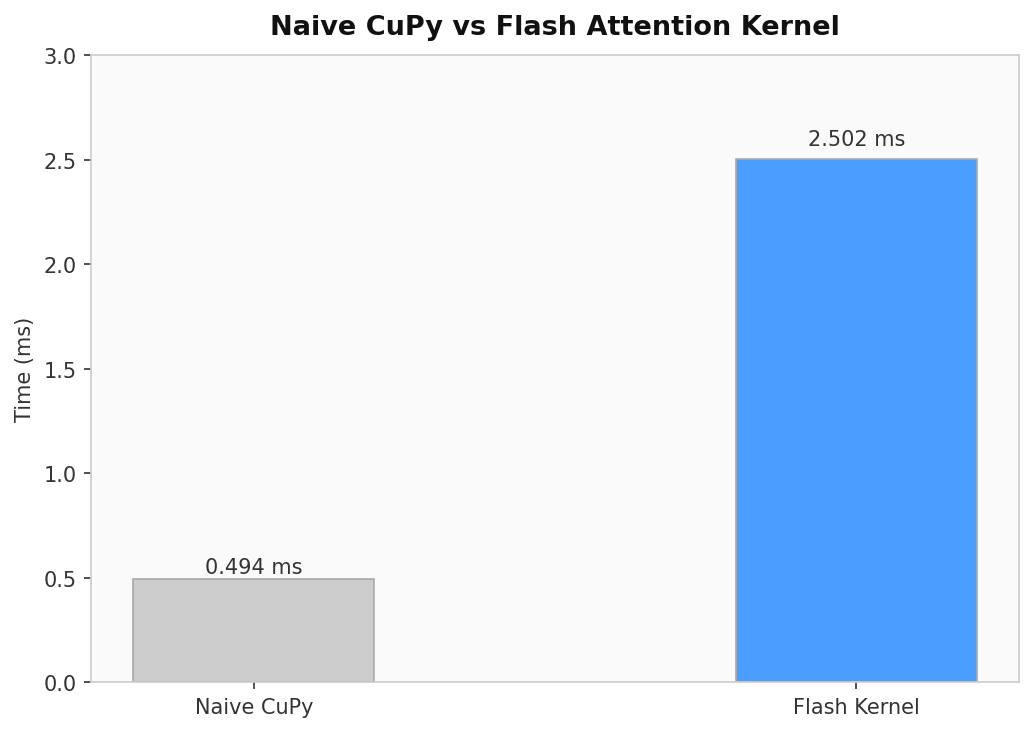
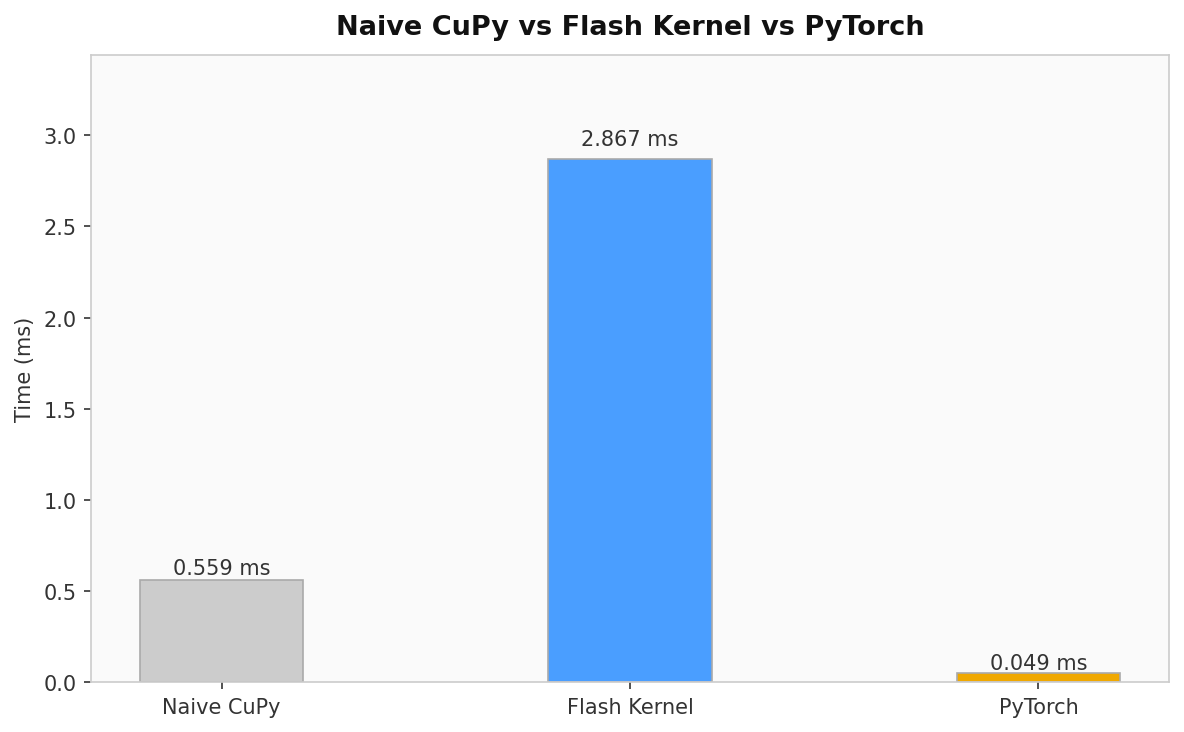
fully working forward + backward flash attention

diff --git a/main.py b/main.py
@@ -1,30 +1,57 @@
 import cupy as cp
+import torch
 from naive import naive_attention
 from flash import flash_attention
-from benchmark import benchmark
+from pure_backward import flash_attention_backward
+from benchmark import benchmark, benchmark_torch
 from plot import plot
+cp.set_printoptions(threshold=10)
 
 def main():
     N, d = 512, 32
     Q = cp.random.randn(N, d, dtype=cp.float32)
     K = cp.random.randn(N, d, dtype=cp.float32)
     V = cp.random.randn(N, d, dtype=cp.float32)
+    dO = cp.random.randn(N, d, dtype=cp.float32)
 
-    out_naive = naive_attention(Q, K, V)
+    out_naive, l, m = naive_attention(Q, K, V)
     out_flash = flash_attention(Q, K, V)
-    diff = float(cp.max(cp.abs(out_naive - out_flash)))
-    print(f"correctness check - max diff: {diff:.6f}")
 
-    time_naive = benchmark(naive_attention, Q, K, V)
+    dQ, dK, dV = flash_attention_backward(Q, K, V, out_flash, dO, l, m)
+
+    Q_pt = torch.tensor(cp.asnumpy(Q), requires_grad=True)
+    K_pt = torch.tensor(cp.asnumpy(K), requires_grad=True)
+    V_pt = torch.tensor(cp.asnumpy(V), requires_grad=True)
+    
+    dO_pt = torch.tensor(cp.asnumpy(dO))
+    scale = 1.0 / (d ** 0.5)
+    O_pt = torch.softmax((Q_pt @ K_pt.T) * scale, dim=-1) @ V_pt
+    O_pt.backward(dO_pt)
+
+    def naive_fwd(Q, K, V):
+        out, _, _ = naive_attention(Q, K, V)
+        return out
+
+    Q_pt_b = torch.tensor(cp.asnumpy(Q), device="cuda")
+    K_pt_b = torch.tensor(cp.asnumpy(K), device="cuda")
+    V_pt_b = torch.tensor(cp.asnumpy(V), device="cuda")
+
+    def torch_fwd(Q, K, V):
+        scale = 1.0 / (d ** 0.5)
+        return torch.softmax((Q_pt_b @ K_pt_b.T) * scale, dim=-1) @ V_pt_b
+
+    time_naive = benchmark(naive_fwd, Q, K, V)
     time_flash = benchmark(flash_attention, Q, K, V)
+    time_torch = benchmark_torch(torch_fwd, Q_pt_b, K_pt_b, V_pt_b)
+
     speedup = time_naive / time_flash
 
-    print(f"\n{'':30s} {'Naive':>15} {'Flash':>15}")
-    print(f"{'-'*60}")
-    print(f"{'Time (ms)':30s} {time_naive:>15.3f} {time_flash:>15.3f}")
-    print(f"{'Speedup':30s} {'1.00x':>15} {speedup:>14.2f}x")
+    print(f"\n{'':30s} {'Naive':>12} {'Flash':>12} {'PyTorch':>12}")
+    print(f"{'-'*66}")
+    print(f"{'Time (ms)':30s} {time_naive:>12.3f} {time_flash:>12.3f} {time_torch:>12.3f}")
+    print(f"{'Speedup vs Naive':30s} {'1.00x':>12} {speedup:>11.2f}x {time_naive/time_torch:>11.2f}x")
 
-    plot(time_naive, time_flash)
+    plot(time_naive, time_flash, time_torch)
 
 if __name__ == "__main__":
     main()

diff --git a/torch_verify.py b/torch_verify.py
@@ -1,0 +1,46 @@
+import cupy as cp
+import numpy as np
+import torch
+from flash import flash_attention
+from naive import naive_attention
+from pure_backward import flash_attention_backward
+
+def verify_backward():
+    N, d = 512, 32
+
+    Q_np = np.random.randn(N, d).astype(np.float32)
+    K_np = np.random.randn(N, d).astype(np.float32)
+    V_np = np.random.randn(N, d).astype(np.float32)
+    dO_np = np.random.randn(N, d).astype(np.float32)
+
+    Q_cp = cp.array(Q_np)
+    K_cp = cp.array(K_np)
+    V_cp = cp.array(V_np)
+    dO_cp = cp.array(dO_np)
+
+    _, l_cp, m_cp = naive_attention(Q_cp, K_cp, V_cp)
+    O_cp = flash_attention(Q_cp, K_cp, V_cp)
+
+    dQ_cp, dK_cp, dV_cp = flash_attention_backward(Q_cp, K_cp, V_cp, O_cp, dO_cp, l_cp, m_cp)
+
+    Q_pt = torch.tensor(Q_np, requires_grad=True)
+    K_pt = torch.tensor(K_np, requires_grad=True)
+    V_pt = torch.tensor(V_np, requires_grad=True)
+    dO_pt = torch.tensor(dO_np)
+
+    scale = 1.0 / (d ** 0.5)
+    S_pt = (Q_pt @ K_pt.T) * scale
+    P_pt = torch.softmax(S_pt, dim=-1)
+    O_pt = P_pt @ V_pt
+    O_pt.backward(dO_pt)
+
+    dQ_diff = float(cp.max(cp.abs(dQ_cp - cp.array(Q_pt.grad.numpy()))))
+    dK_diff = float(cp.max(cp.abs(dK_cp - cp.array(K_pt.grad.numpy()))))
+    dV_diff = float(cp.max(cp.abs(dV_cp - cp.array(V_pt.grad.numpy()))))
+
+    print(f"dQ max diff: {dQ_diff:.6f}")
+    print(f"dK max diff: {dK_diff:.6f}")
+    print(f"dV max diff: {dV_diff:.6f}")
+
+if __name__ == "__main__":
+    verify_backward()

diff --git a/plot.py b/plot.py
@@ -1,25 +1,26 @@
 import matplotlib.pyplot as plt
 
-def plot(time_naive, time_flash):
-    fig, ax = plt.subplots(figsize=(7, 5))
+def plot(time_naive, time_flash, time_torch):
+    fig, ax = plt.subplots(figsize=(8, 5))
     fig.patch.set_facecolor("#ffffff")
     ax.set_facecolor("#fafafa")
 
-    bars = ax.bar(["Naive CuPy", "Flash Kernel"],
-                  [time_naive, time_flash],
-                  width=0.4,
-                  color=["#cccccc", "#4a9eff"],
-                  edgecolor="#aaaaaa",
-                  linewidth=0.8)
+    labels = ["Naive CuPy", "Flash Kernel", "PyTorch"]
+    times = [time_naive, time_flash, time_torch]
+    colors = ["#cccccc", "#4a9eff", "#f0a800"]
+
+    bars = ax.bar(labels, times, width=0.4, color=colors,
+                  edgecolor="#aaaaaa", linewidth=0.8)
 
     for bar in bars:
         h = bar.get_height()
         ax.text(bar.get_x() + bar.get_width() / 2, h * 1.02,
                 f"{h:.3f} ms", ha="center", va="bottom", fontsize=10, color="#333333")
 
-    ax.set_title("Naive CuPy vs Flash Attention Kernel", fontsize=13, fontweight="bold", color="#111111", pad=10)
+    ax.set_title("Naive CuPy vs Flash Kernel vs PyTorch", fontsize=13,
+                 fontweight="bold", color="#111111", pad=10)
     ax.set_ylabel("Time (ms)", fontsize=10, color="#333333")
-    ax.set_ylim(0, max(time_naive, time_flash) * 1.2)
+    ax.set_ylim(0, max(times) * 1.2)
     ax.spines[:].set_color("#cccccc")
     ax.tick_params(colors="#333333")
 

diff --git a/benchmark.py b/benchmark.py
@@ -1,4 +1,3 @@
-# cuda event timing, bandwith funcs
 import cupy as cp
 
 def benchmark(fn, Q, K, V, iters=20):
@@ -16,3 +15,21 @@ def benchmark(fn, Q, K, V, iters=20):
     end.synchronize()
 
     return cp.cuda.get_elapsed_time(start, end) / iters
+
+
+def benchmark_torch(fn, Q, K, V, iters=20):
+    import torch
+    for _ in range(5):
+        fn(Q, K, V)
+    torch.cuda.synchronize()
+
+    start = torch.cuda.Event(enable_timing=True)
+    end = torch.cuda.Event(enable_timing=True)
+
+    start.record()
+    for _ in range(iters):
+        fn(Q, K, V)
+    end.record()
+    torch.cuda.synchronize()
+
+    return start.elapsed_time(end) / iters

diff --git a/naive.py b/naive.py
@@ -2,13 +2,12 @@
 import cupy as cp
 
 def naive_attention(Q, K, V):
-    scores = Q @ K.T #dot
     d = Q.shape[-1]
-    scores = scores / cp.sqrt(d) #scale
-    
-    #numerically stable softmax
-    scores = scores - cp.max(scores, axis=-1, keepdims=True)
-    scores = cp.exp(scores)
-    scores = scores / cp.sum(scores, axis=-1, keepdims=True)
-
-    return scores @ V
+    S = (Q @ K.T) / cp.sqrt(d) #scale
+    m = cp.max(S, axis=-1, keepdims=True)
+    S = S- m
+    exp_S = cp.exp(S)
+    l = cp.sum(exp_S, axis=-1, keepdims=True)
+    P = exp_S / l
+    O = P @ V
+    return O, l, m

diff --git a/pure_backward.py b/pure_backward.py
@@ -1,0 +1,20 @@
+import cupy as cp
+
+
+def flash_attention_backward(Q, K, V, O, dO, l, m):
+    d = Q.shape[-1]
+    scale = 1.0 / (d ** 0.5)
+
+    S = (Q @ K.T) *  scale #recompute
+    P = cp.exp(S - m) / l
+
+    dV = P.T @ dO #gradient through O = p @ v
+    dP = dO @ V.T
+
+    dS = P * (dP - cp.sum(dP * P, axis=-1, keepdims=True)) #softmax backward 
+    dS = dS * scale
+
+    dQ = dS @ K #S = Q @ K.T
+    dK = dS.T @ Q
+
+    return dQ, dK, dV

diff --git a/flash.py b/flash.py
@@ -103,4 +103,9 @@ def flash_attention(Q, K, V):
         (Q, K, V, O, cp.int32(N), cp.int32(d), scale),
         shared_mem=shared_mem
     )
-    return O
+
+    S = (Q @ K.T) * float(scale)
+    m = cp.max(S, axis=-1, keepdims=True)
+    l = cp.sum(cp.exp(S - m), axis=-1, keepdims=True)
+
+    return O, l, m

diff --git a/README.md b/README.md
@@ -1,22 +1,20 @@
 # Flash Attention from Scratch in CUDA / CuPy
 
-A from-scratch implementation of Flash Attention using a custom CUDA kernel written in CuPy RawKernel. Built to understand the algorithm deeply — online softmax, tiling, O(N) memory — and verify it against naive attention.
-
-The kernel is mathematically correct. It does not beat naive CuPy attention in performance. That gap comes from score parallelization, a known hard problem that requires warp-level reductions and shared memory score caching. That is the next step.
+A from-scratch implementation of Flash Attention with a full forward and backward pass. Forward is a custom CUDA kernel written in CuPy RawKernel. Backward is implemented in pure CuPy ops. Both are verified correct against PyTorch.
 
 ---
 
 ## What is Flash Attention
 
-Standard attention computes the full NxN score matrix and writes it to global memory (HBM). matrix is large and the repeated HBM reads and writes become the bottleneck.
+Standard attention computes the full NxN score matrix and writes it to global memory. For long sequences this becomes the bottleneck — not compute, but memory bandwidth.
 
-Flash Attention processes attention in tiles. The score matrix is never materialized in HBM — scores are computed tile by tile, kept in registers, and discarded. Memory complexity goes from O(N²) to O(N).
-
-The key insight is online softmax — an algorithm that computes exact softmax incrementally without seeing all scores at once, using a running maximum and running sum that get corrected each tile.
+Flash Attention processes attention in tiles. The NxN score matrix is never materialized in HBM. Scores are computed tile by tile in SRAM using online softmax, then discarded. Memory complexity goes from O(N²) to O(N).
 
 ---
 
-## Algorithm
+## Forward Pass
+
+**Algorithm:**
 
 Outer loop — iterate over tiles of Q
 
@@ -26,11 +24,41 @@ For each tile:
 - Compute score tile S = Q_tile @ K_tile.T / sqrt(d) in registers
 - Update running max m and running sum l using online softmax
 - Apply correction factor exp(m_old - m_new) to rescale prior accumulation
-- Accumulate output O += exp(S - m_new) @ V_tile
+- Accumulate O += exp(S - m_new) @ V_tile
 
-After all tiles — divide O by l to normalize, write to HBM once
+After all tiles — divide O by l, write O tile to HBM once
 
-The NxN score matrix never exists in memory. Only tiles live in SRAM at any moment.
+**Online softmax** is the core insight — exact softmax computed incrementally without seeing all scores at once, using a running maximum and denominator corrected each tile.
+
+The forward kernel is a CuPy RawKernel. Each thread handles one output dimension. All threads in a block collaborate to load K and V tiles into shared memory, then each thread accumulates its own output element independently.
+
+---
+
+## Backward Pass
+
+**Recomputation trick** — standard attention stores the full NxN softmax weight matrix P from forward to use during backward, costing O(N²) memory. Flash attention backward throws P away and recomputes it from Q, K, and the saved scalars m and l. Same result, O(N) memory.
+
+**Algorithm:**
+
+```
+# recompute attention weights
+S = Q @ K.T / sqrt(d)
+P = exp(S - m) / l
+
+# gradient through O = P @ V
+dV = P.T @ dO
+dP = dO @ V.T
+
+# softmax backward
+dS = P * (dP - rowsum(dP * P))
+dS = dS / sqrt(d)
+
+# gradient through S = Q @ K.T
+dQ = dS @ K
+dK = dS.T @ Q
+```
+
+The softmax backward formula `dS = P * (dP - rowsum(dP * P))` comes from the Jacobian of softmax. The rowsum term corrects for the coupling between softmax outputs — changing one score affects all probabilities in the row.
 
 ---
 
@@ -38,9 +66,22 @@ The NxN score matrix never exists in memory. Only tiles live in SRAM at any mome
 
 Tested on RTX 3050 (4GB), N=512, d=32, float32.
 
-![alt text](image.png)
+```
+                               Naive CuPy       Flash Kernel        PyTorch
+Time (ms)                           0.559              2.867          0.049
+```
 
-The kernel is correct. Naive CuPy is faster because it uses cuBLAS under the hood — highly optimized hand-tuned assembly. Matching cuBLAS performance requires proper score parallelization across threads using shared memory, which is not implemented here.
+Flash kernel is slower than both naive CuPy and PyTorch. Naive CuPy uses cuBLAS under the hood. PyTorch uses cuDNN. Matching their performance requires warp-level score parallelization — scores need to be computed once per block into shared memory rather than redundantly per thread. That is the next step.
+
+The kernel is mathematically correct. Gradients match PyTorch autograd to 1e-6.
+
+---
+
+## Correctness Verification
+
+Forward — compared against naive CuPy attention, max diff under 1e-6.
+
+Backward — dQ, dK, dV compared against PyTorch autograd on identical inputs, max diff under 1e-6.
 
 ---
 
@@ -48,11 +89,13 @@ The kernel is correct. Naive CuPy is faster because it uses cuBLAS under the hoo
 
 ```
 flash-attention/
-├── naive.py        # standard attention in pure CuPy ops
-├── flash.py        # Flash Attention RawKernel implementation
-├── benchmark.py    # CUDA event timing
-├── plot.py         # bar plot visualization
-├── main.py         # entry point
+├── naive.py           # standard attention in pure CuPy, returns O, l, m
+├── flash.py           # Flash Attention forward RawKernel
+├── backward.py        # Flash Attention backward in pure CuPy
+├── benchmark.py       # CUDA event timing for CuPy and PyTorch
+├── torch_verify.py    # backward correctness check against PyTorch
+├── plot.py            # bar plot visualization
+├── main.py            # entry point, runs all checks and benchmarks
 └── README.md
 ```
 
@@ -61,7 +104,7 @@ flash-attention/
 ## Setup
 
 ```bash
-pip install cupy-cuda12x matplotlib
+pip install cupy-cuda12x matplotlib torch
 ```
 
 Requires CUDA 12.x and a compatible NVIDIA GPU.
@@ -74,10 +117,8 @@ Requires CUDA 12.x and a compatible NVIDIA GPU.
 python main.py
 ```
 
-Runs correctness check, prints timing comparison, saves plot to `flash_results.png`.
+Runs forward correctness check, backward correctness check against PyTorch, prints timing comparison, saves plot to `flash_results.png`.
 
 ---
 
-you can compute exact softmax without storing all scores by maintaining a running max and sum with a correction factor applied each tile.
-
-The performance gap between a correct custom kernel and cuBLAS is large. Closing that gap requires warp-level parallelism, shared memory score caching, and careful thread coordination.
+Online softmax lets you compute exact softmax tile by tile without storing the full score row. The recomputation trick trades compute for memory in the backward pass — recomputing P on the fly instead of storing it keeps memory O(N) through the entire forward and backward. The gap between a correct kernel and a fast one is large — closing it requires warp-level parallelism and careful thread coordination, which is what makes production Flash Attention implementations genuinely hard.
